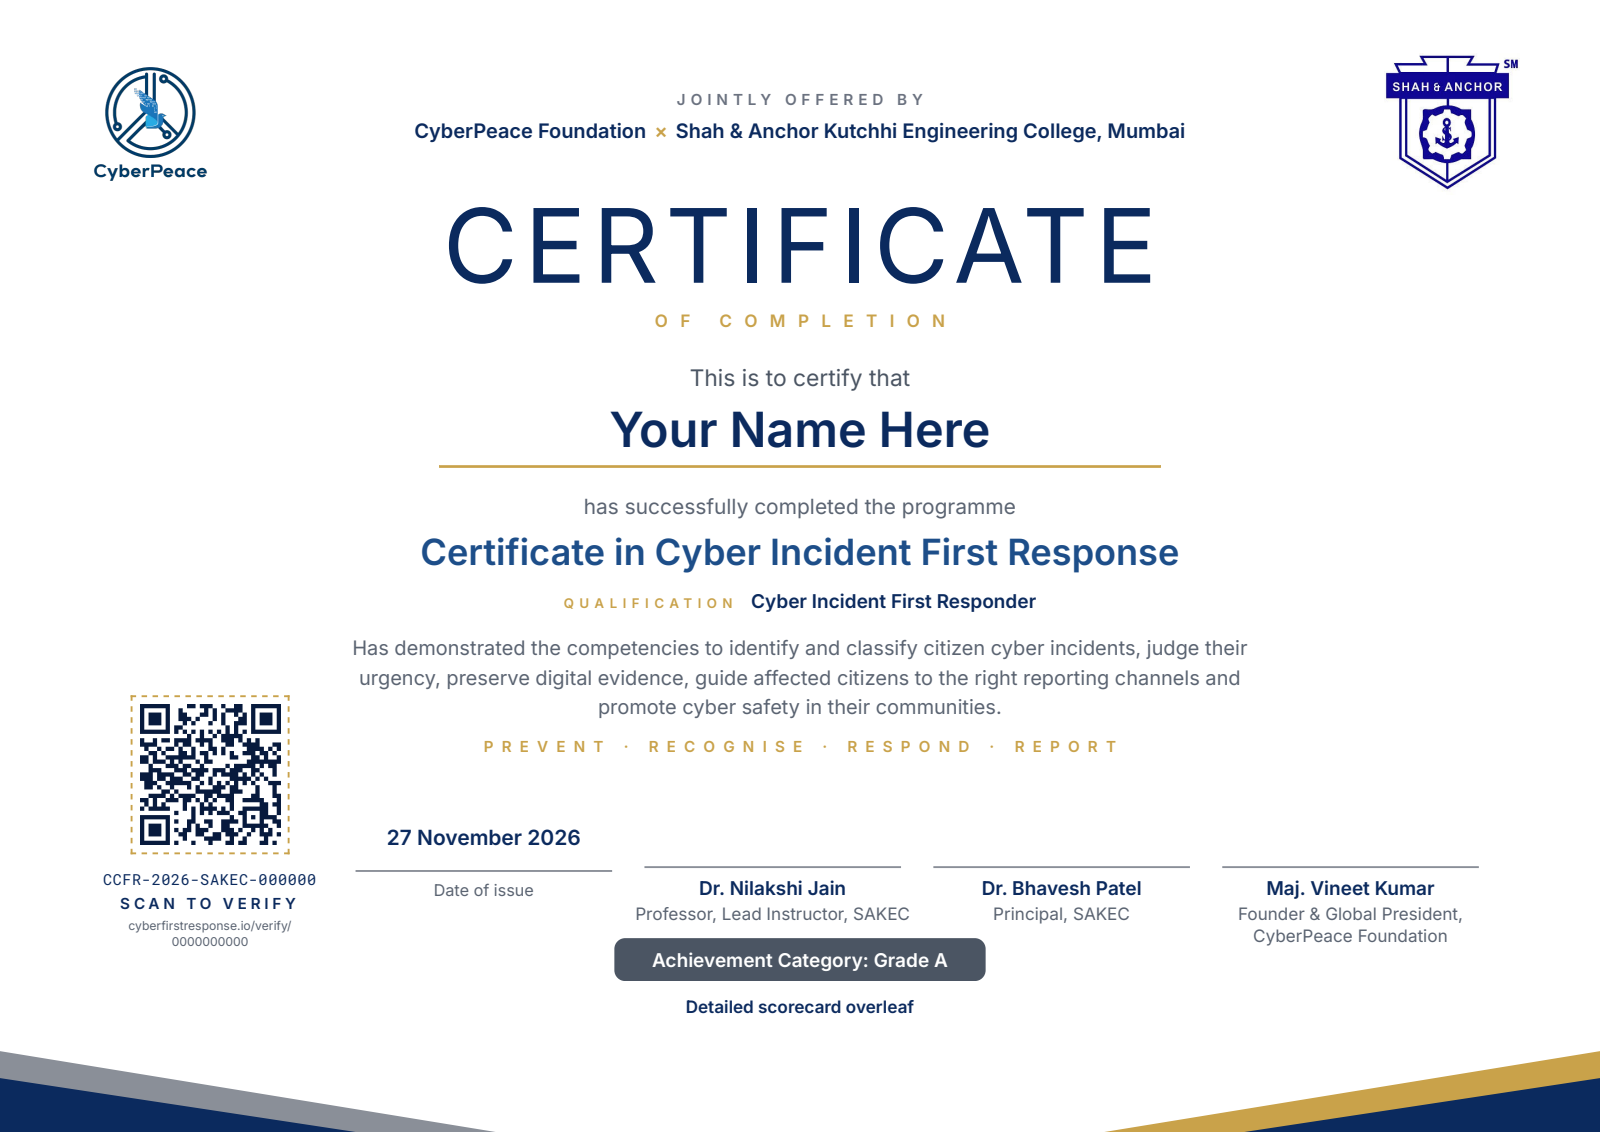
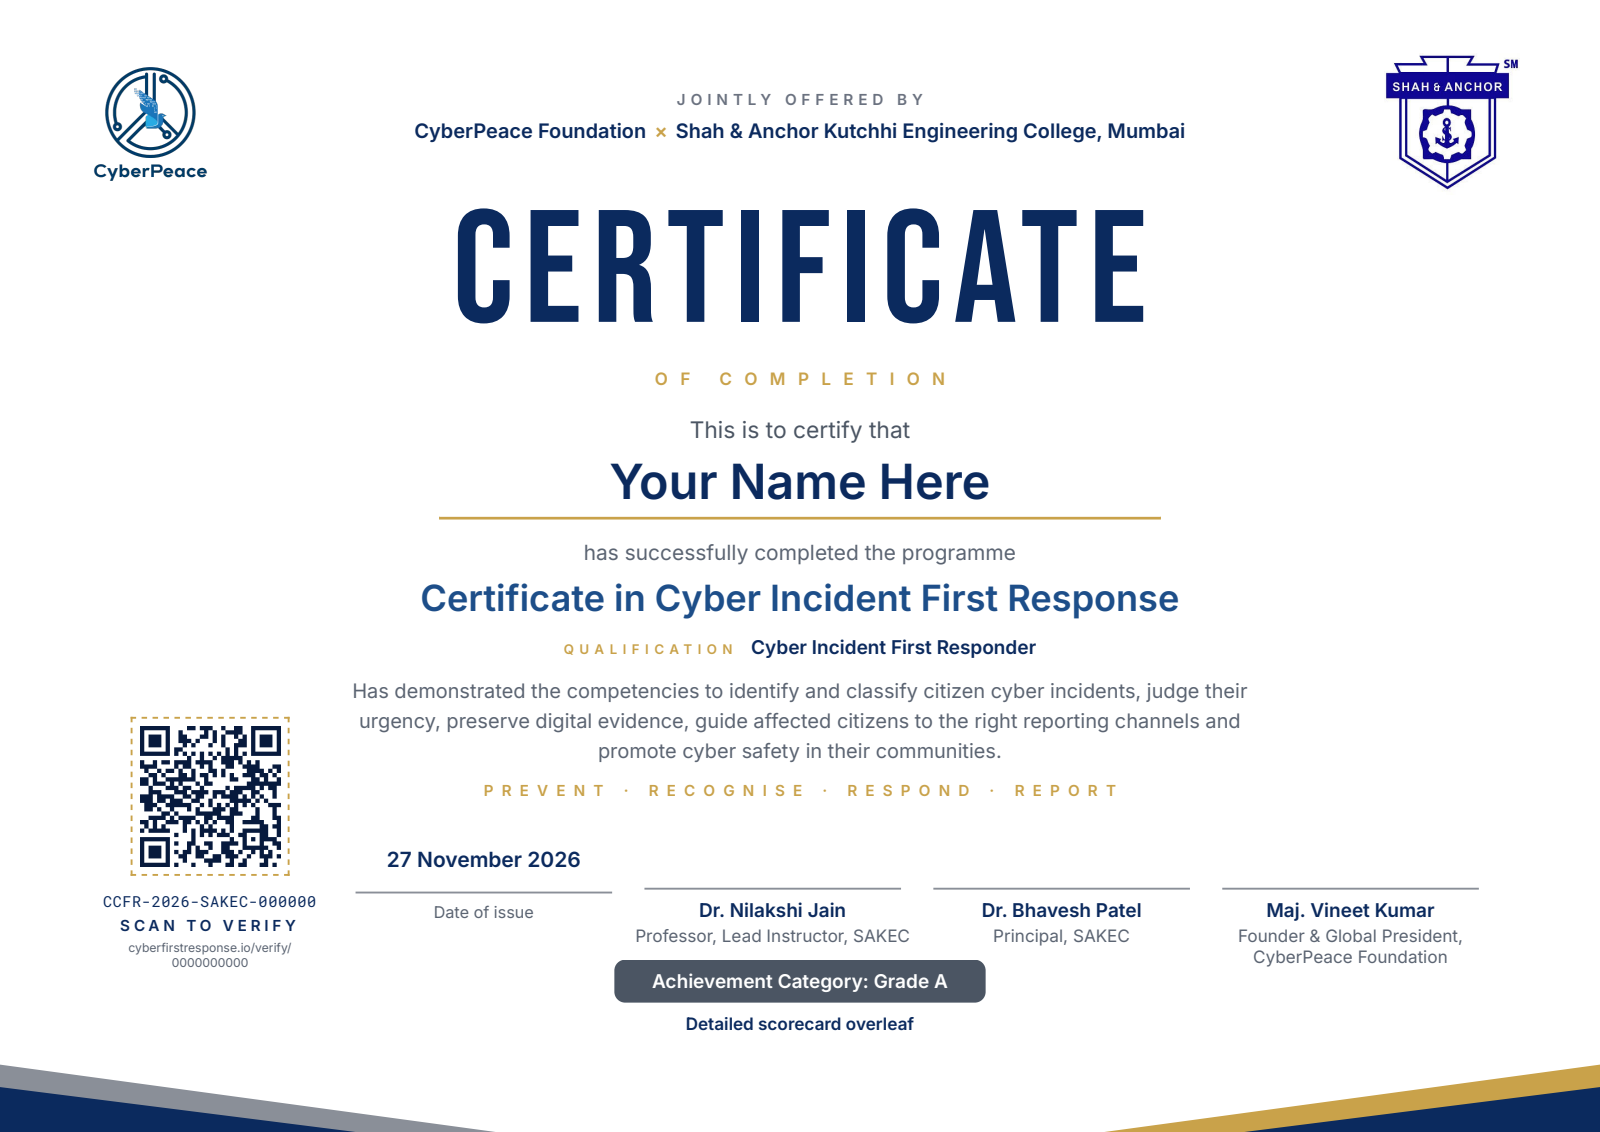
Set the certificate heading in Bebas Neue, and fix ruff formatting
The page-one <h1> had no font-family rule, so it inherited Inter from body
while page two's heading correctly used Bebas. Caught in review.

That also invalidated the wordmark's size. The ~205mm I measured when
deciding the spec's 84pt was too wide was Inter at 84pt, not Bebas, so the
reduction to 54pt was compensating for this bug. Measured properly from the
font's own metrics, Bebas at 84pt sets CERTIFICATE at 132.4mm, 44.6% of the
sheet, against the artwork's ~44.5%. The spec's size was right, and it is
restored.

The taller real heading pushed the pillars line into the signatures, so the
bottom block, pill, overleaf line and foot band all move down a little.

Also wraps a long assertion that `ruff format --check` rejected.

diff --git a/templates/certificates/pdf/certificate.html b/templates/certificates/pdf/certificate.html
@@ -46,24 +46,21 @@ Rules for whoever edits it:
   .jointly .who .x { color: #C9A24A; margin: 0 1.5mm; }
 
   .c-main { position: absolute; top: 36mm; left: 20mm; right: 20mm; text-align: center; }
-  /* The spec's 84pt comes from the Canva slide, where it sets a wordmark about 44% of the page
-     width. At 84pt here Bebas measures ~205mm, two thirds of the sheet, so the size is taken from
-     the artwork's proportion instead. Body sizes are as specified. */
-  .c-main h1 { margin: 0; font-size: 54pt; font-weight: 400; letter-spacing: .065em; line-height: 1; padding-left: .065em; }
+  .c-main h1 { margin: 0; font-size: 84pt; font-weight: 400; letter-spacing: .065em; line-height: 1; padding-left: .065em; }
   .c-main .of { margin-top: 2.4mm; color: #C9A24A; font-size: 9pt; font-weight: 700; letter-spacing: .722em; padding-left: .722em; }
-  .c-main .certify { margin-top: 5.5mm; color: #4B5563; font-size: 12pt; }
+  .c-main .certify { margin-top: 4.5mm; color: #4B5563; font-size: 12pt; }
   .c-main .name { display: inline-block; margin-top: 1.5mm; padding: 0 8mm 1.5mm; min-width: 118mm;
                   font-size: 25.5pt; font-weight: 700; line-height: 1.15; border-bottom: .5mm solid #C9A24A; }
   .c-main .name--long { font-size: 18pt; }
-  .c-main .lead { margin-top: 4.5mm; color: #5B6472; font-size: 11pt; }
+  .c-main .lead { margin-top: 3.5mm; color: #5B6472; font-size: 11pt; }
   .c-main .title { margin-top: 2mm; color: #1D4E89; font-size: 19pt; font-weight: 700; line-height: 1.15; }
   .c-main .qual { margin-top: 2.8mm; font-size: 10pt; font-weight: 700; }
   .c-main .qual .label { color: #C9A24A; font-size: 7pt; font-weight: 700; letter-spacing: .414em; margin-right: 2.4mm; }
   /* Kept clear of the QR block on the left (which ends at 60mm) so the paragraph cannot run over it. */
-  .c-main .about { margin: 3.5mm auto 0; max-width: 170mm; color: #5B6472; font-size: 10.5pt; line-height: 1.5; }
+  .c-main .about { margin: 3mm auto 0; max-width: 170mm; color: #5B6472; font-size: 10.5pt; line-height: 1.5; }
   .c-main .pillars { margin-top: 2.6mm; color: #C9A24A; font-size: 8pt; font-weight: 700; letter-spacing: .5375em; padding-left: .5375em; }
 
-  .c-verify { position: absolute; left: 18mm; bottom: 34mm; width: 42mm; text-align: center; }
+  .c-verify { position: absolute; left: 18mm; bottom: 30mm; width: 42mm; text-align: center; }
   .c-verify img { width: 26mm; height: 26mm; padding: 1.4mm; border: .35mm dashed #C9A24A; }
   .c-verify .cid { margin-top: 1.6mm; font-size: 8pt; letter-spacing: .04em; }
   .c-verify .lbl { margin-top: .7mm; font-size: 8pt; font-weight: 700; letter-spacing: .25em; }
@@ -71,7 +68,7 @@ Rules for whoever edits it:
      (apps/certificates/codes.py), so without this line the page can only be verified by scanning. */
   .c-verify .url { margin-top: .8mm; color: #5B6472; font-size: 6.4pt; line-height: 1.25; overflow-wrap: anywhere; }
 
-  .c-bottom { position: absolute; left: 63mm; right: 16mm; bottom: 34mm; }
+  .c-bottom { position: absolute; left: 63mm; right: 16mm; bottom: 30mm; }
   .c-col { display: inline-block; vertical-align: bottom; width: 24.6%; text-align: center; }
   .c-col .ink { height: 12mm; }
   .c-col .ink img { max-height: 12mm; max-width: 40mm; }
@@ -83,11 +80,11 @@ Rules for whoever edits it:
      the columns are bottom-aligned, so an uneven one would lift its own signature rule. */
   .c-col .role { margin-top: .4mm; height: 8.4mm; color: #5B6472; font-size: 9pt; line-height: 1.25; }
 
-  .cat-pill { position: absolute; left: 0; right: 0; bottom: 28mm; text-align: center; }
+  .cat-pill { position: absolute; left: 0; right: 0; bottom: 24mm; text-align: center; }
   .cat-pill span { display: inline-block; padding: 1.6mm 7mm; border-radius: 2mm; background: #4B5563;
                    color: #fff; font-size: 10pt; font-weight: 700; }
-  .overleaf { position: absolute; left: 0; right: 0; bottom: 21mm; text-align: center; font-size: 9pt; font-weight: 700; }
-  .band { position: absolute; left: 0; right: 0; bottom: 0; width: 297mm; height: 18mm; }
+  .overleaf { position: absolute; left: 0; right: 0; bottom: 18mm; text-align: center; font-size: 9pt; font-weight: 700; }
+  .band { position: absolute; left: 0; right: 0; bottom: 0; width: 297mm; height: 15mm; }
 
   /* --- Page 2: the detailed scorecard. Totals only: per-module marks stay off the certificate. */
   .sheet--score { page-break-before: always; }
@@ -129,7 +126,7 @@ Rules for whoever edits it:
   </div>
 
   <div class="c-main">
-    <h1>CERTIFICATE</h1>
+    <h1 class="display">CERTIFICATE</h1>
     <p class="of">OF COMPLETION</p>
 
     <p class="certify">This is to certify that</p>

diff --git a/tests/test_certificates.py b/tests/test_certificates.py
@@ -324,7 +324,10 @@ def test_the_certificate_page_prints_the_grade_only_and_the_scorecard_carries_th
     assert "Certificate in Cyber Incident First Response" in front  # the programme it states
     assert "Cyber Incident First Responder" in front  # the qualification
     assert "This is to certify that" in front and "Asha Invented Rao" in front
-    assert "Has demonstrated the competencies to identify and classify citizen cyber incidents" in front
+    assert (
+        "Has demonstrated the competencies to identify and classify citizen cyber incidents"
+        in front
+    )
     assert "Achievement Category: Grade A" in front and cert.certificate_no in front
     assert "Detailed scorecard overleaf" in front
     assert "NSQF level and credits shown after approval by the competent authority" in text
